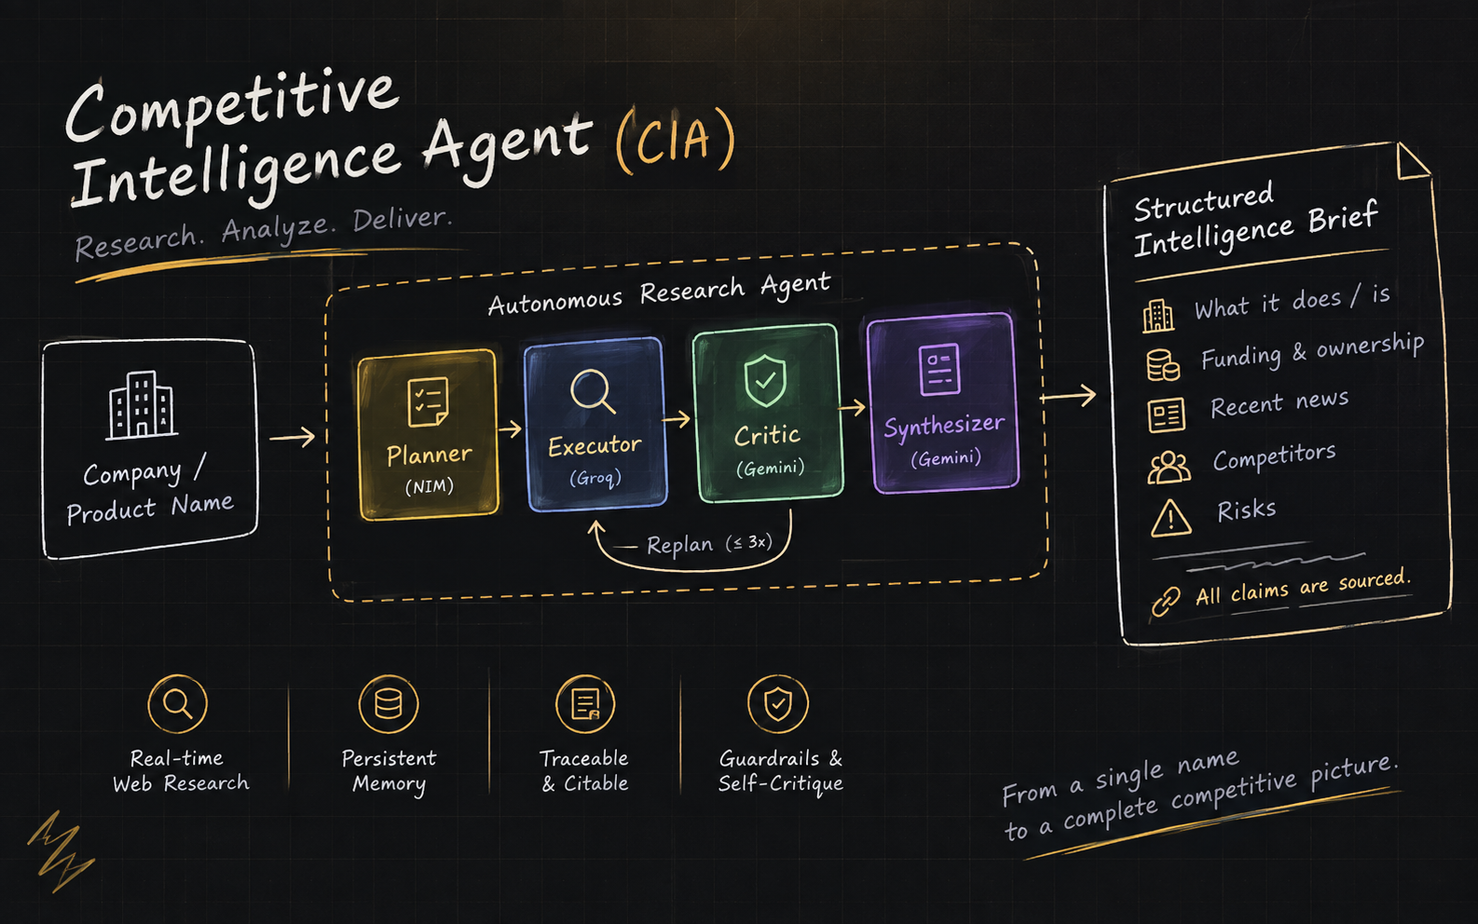
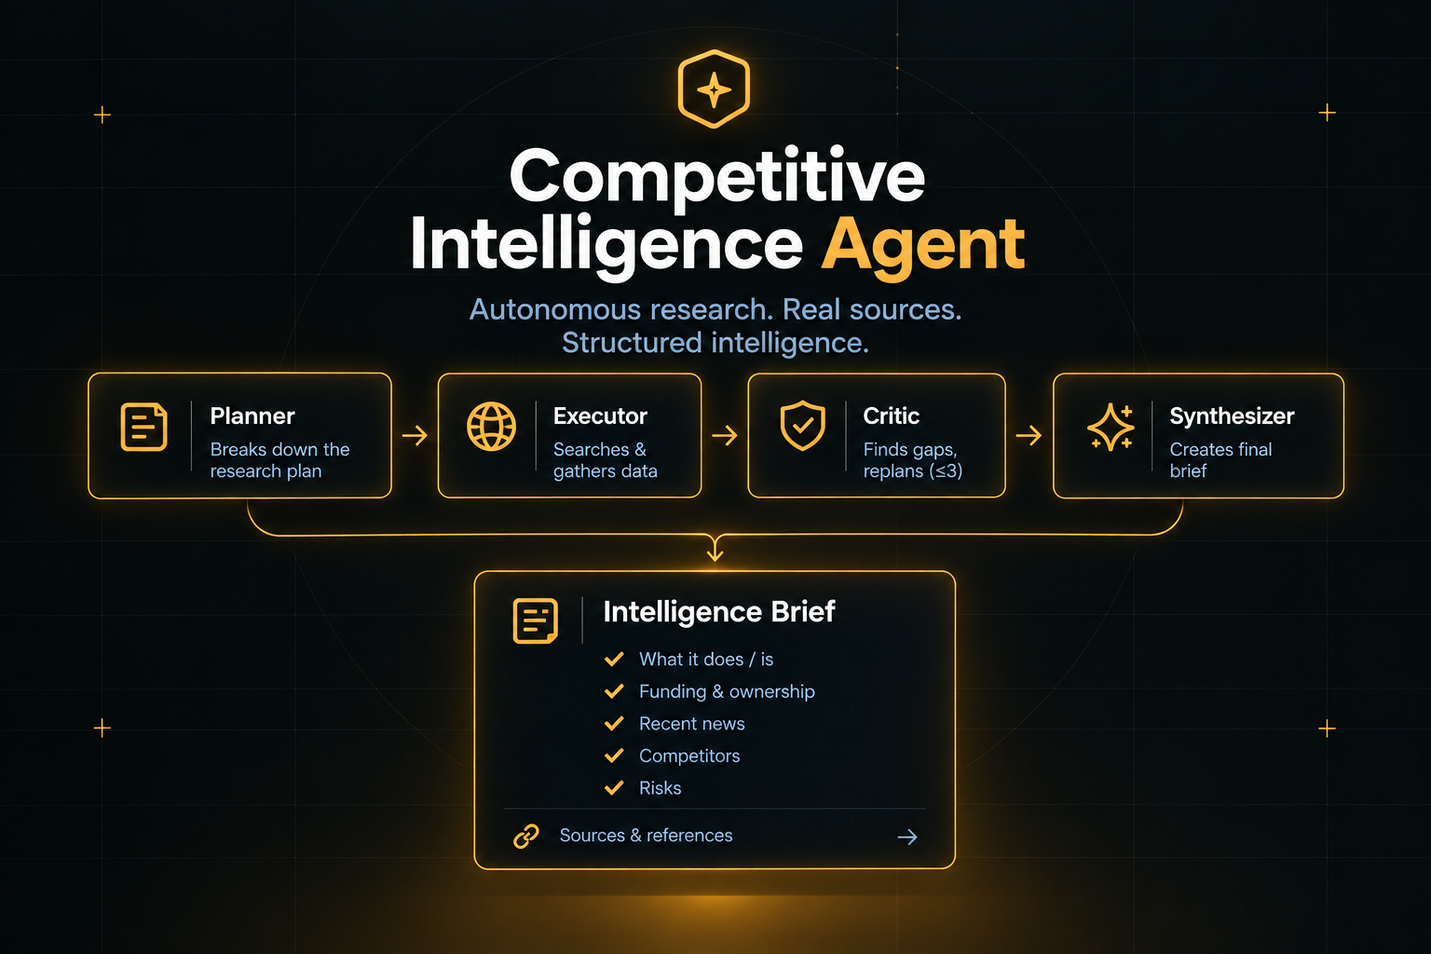
Update: hero section and assets

diff --git a/index.html b/index.html
@@ -3,8 +3,17 @@
 <head>
 <meta charset="UTF-8"/>
 <meta name="viewport" content="width=device-width, initial-scale=1.0"/>
-<title>Abhinav Harbola | AI/ML Engineer</title>
-<meta name="description" content="Portfolio of Abhinav Harbola, AI/ML Engineer building production-style systems across recommenders, RAG, autonomous agents, and MLOps governance."/>
+<title>Abhinav Harbola | AI/ML Engineer &amp; Data Scientist</title>
+<meta name="description" content="Portfolio of Abhinav Harbola, AI/ML Engineer &amp; Data Scientist building production-style systems across recommenders, RAG, autonomous agents, MLOps governance, and causal inference."/>
+<meta property="og:type" content="website"/>
+<meta property="og:title" content="Abhinav Harbola | AI/ML Engineer &amp; Data Scientist"/>
+<meta property="og:description" content="Nine end-to-end systems across AI agents, GenAI/RAG, MLOps governance, recommenders, and data science, each self-directed, tested, and benchmarked on free-tier infrastructure."/>
+<meta property="og:image" content="assets/images/hero_shot.webp"/>
+<meta property="og:url" content="https://abhinavharbola.dev/"/>
+<meta name="twitter:card" content="summary_large_image"/>
+<meta name="twitter:title" content="Abhinav Harbola | AI/ML Engineer &amp; Data Scientist"/>
+<meta name="twitter:description" content="Nine end-to-end systems across AI agents, GenAI/RAG, MLOps governance, recommenders, and data science, each self-directed, tested, and benchmarked on free-tier infrastructure."/>
+<meta name="twitter:image" content="assets/images/hero_shot.webp"/>
 <link rel="icon" href="assets/favicon.svg" type="image/svg+xml"/>
 <link rel="preconnect" href="https://fonts.googleapis.com">
 <link rel="preconnect" href="https://fonts.gstatic.com" crossorigin>
@@ -33,6 +42,7 @@
   --radius-card:14px;
   --radius-sm:8px;
   --maxw:1180px;
+  --nav-h:72px;
   --font-display:'Bricolage Grotesque',system-ui,sans-serif;
   --font-body:'Inter',system-ui,sans-serif;
   color-scheme:dark;
@@ -108,7 +118,7 @@ button{font-family:inherit;cursor:pointer;}
   background:var(--nav-bg);
   border-bottom:1px solid var(--border);
 }
-.nav-inner{display:flex;align-items:center;justify-content:space-between;height:72px;}
+.nav-inner{display:flex;align-items:center;justify-content:space-between;height:var(--nav-h);}
 .brand{display:flex;align-items:center;gap:10px;font-family:var(--font-display);font-weight:600;font-size:17px;letter-spacing:-.01em;}
 .brand-mark{
   width:34px;height:34px;border-radius:9px;flex-shrink:0;
@@ -144,7 +154,7 @@ button{font-family:inherit;cursor:pointer;}
   .nav-burger{display:flex;}
 }
 .mobile-menu{
-  display:none;position:fixed;inset:72px 0 0 0;z-index:49;background:var(--bg);
+  display:none;position:fixed;inset:var(--nav-h) 0 0 0;z-index:49;background:var(--bg);
   border-top:1px solid var(--border);padding:28px 24px;
 }
 .mobile-menu.open{display:block;}
@@ -182,7 +192,7 @@ button{font-family:inherit;cursor:pointer;}
   font-family:var(--font-display);font-weight:600;
   font-size:clamp(34px,5vw,58px);line-height:1.04;letter-spacing:-.02em;margin:18px 0 20px;
 }
-.hero h1 em{font-style:normal;color:var(--accent-text);}
+.hero h1 .accent-em{color:var(--accent-text);}
 .hero p.lead{font-size:17.5px;color:var(--text-muted);max-width:56ch;margin:0 0 30px;}
 .hero-actions{display:flex;gap:14px;flex-wrap:wrap;}
 
@@ -192,11 +202,11 @@ button{font-family:inherit;cursor:pointer;}
 .hero-corner.tl{top:-1px;left:-1px;border-top:2px solid var(--text-faint);border-left:2px solid var(--text-faint);}
 .hero-corner.br{bottom:-1px;right:-1px;border-bottom:2px solid var(--text-faint);border-right:2px solid var(--text-faint);}
 .hero-photo{
-  position:relative;z-index:1;border-radius:20px;overflow:hidden;border:1px solid var(--border-strong);
+  position:relative;z-index:1;border-radius:0 20px 0 20px;overflow:hidden;border:1px solid var(--border-strong);
   aspect-ratio:1/1.06;background:var(--surface-2);padding:12px;
 }
 .hero-photo img{
-  width:100%;height:100%;object-fit:cover;border-radius:9px;
+  width:100%;height:100%;object-fit:cover;border-radius:0 9px 0 9px;
   filter:grayscale(100%) contrast(1.02);
   transition:filter .45s ease;
 }
@@ -290,7 +300,7 @@ button{font-family:inherit;cursor:pointer;}
 
 /* contact */
 .contact-band{
-  background:linear-gradient(165deg, var(--surface-2), var(--surface));
+  background:var(--bg);
   border:1px solid var(--border);border-radius:20px;
   padding:56px;position:relative;overflow:hidden;
 }
@@ -336,7 +346,7 @@ footer{border-top:1px solid var(--border);padding:36px 0;}
 }
 .page-header .back:hover{color:var(--accent-text);}
 .page-header h1{font-family:var(--font-display);font-size:clamp(30px,4.5vw,46px);font-weight:600;letter-spacing:-.02em;margin:0 0 14px;text-align:center;}
-.page-header p{color:var(--text-muted);font-size:15.5px;max-width:64ch;margin:0 auto 30px;text-align:center;text-wrap:balance;}
+.page-header p{color:var(--text-muted);font-size:15.5px;max-width:80ch;margin:0 auto 30px;text-align:center;}
 
 .filter-row{display:flex;flex-wrap:wrap;justify-content:center;gap:10px;}
 .filter-chip{
@@ -353,6 +363,7 @@ footer{border-top:1px solid var(--border);padding:36px 0;}
   background:var(--surface);border:1px solid var(--border);border-radius:var(--radius-card);
   overflow:hidden;cursor:pointer;transition:border-color .2s ease, transform .2s ease;
   display:flex;flex-direction:column;text-align:left;width:100%;color:inherit;
+  padding:0;margin:0;font:inherit;-webkit-appearance:none;appearance:none;
 }
 .proj-card:hover{border-color:var(--accent-border);transform:translateY(-3px);}
 .proj-media{aspect-ratio:16/10;background:var(--bg-soft);position:relative;border-bottom:1px solid var(--border);}
@@ -377,6 +388,7 @@ footer{border-top:1px solid var(--border);padding:36px 0;}
   background:var(--bg-soft);border:1px solid var(--border-strong);border-radius:20px;max-width:820px;width:100%;
   margin-bottom:48px;overflow:hidden;
 }
+.modal:focus{outline:none;}
 .modal-media{aspect-ratio:16/9;background:var(--surface);position:relative;border-bottom:1px solid var(--border);}
 .modal-media img{width:100%;height:100%;object-fit:cover;object-position:top;}
 .modal-media.noimg{display:flex;align-items:center;justify-content:center;}
@@ -448,8 +460,8 @@ footer{border-top:1px solid var(--border);padding:36px 0;}
 <section class="hero">
   <div class="wrap hero-grid">
     <div class="rv in">
-      <span class="eyebrow">AI/ML Engineer &middot; open to Data Science roles</span>
-      <h1>ML and LLM systems built to hold up under <em>scrutiny</em>.</h1>
+      <span class="eyebrow">AI/ML Engineer &amp; Data Scientist</span>
+      <h1>ML and LLM systems built to hold up under <span class="accent-em">scrutiny</span>.</h1>
       <p class="lead">Not just for a demo. Across recommenders, retrieval-augmented generation, autonomous agents, and MLOps governance, each system is self-directed, tested, benchmarked, and honest about its own limits.</p>
       <div class="hero-actions">
         <a href="#/projects" class="btn btn-primary">View projects <svg class="ic" viewBox="0 0 24 24" fill="none" stroke="currentColor" stroke-width="1.8" stroke-linecap="round" stroke-linejoin="round"><path d="M5 12l14 0"/><path d="M13 18l6 -6"/><path d="M13 6l6 6"/></svg></a>
@@ -472,9 +484,9 @@ footer{border-top:1px solid var(--border);padding:36px 0;}
 <section class="stats-strip">
   <div class="wrap stats-grid">
     <div class="stat-item rv"><div class="stat-num"><span>9</span></div><div class="stat-label">End-to-end systems built</div></div>
-    <div class="stat-item rv"><div class="stat-num"><span>3</span></div><div class="stat-label">Domains: AI agents, MLOps, data science</div></div>
+    <div class="stat-item rv"><div class="stat-num"><span>5</span></div><div class="stat-label">Domains: AI agents, GenAI/RAG, MLOps, recommenders, data science</div></div>
     <div class="stat-item rv"><div class="stat-num"><span>160+</span></div><div class="stat-label">Automated tests documented across the portfolio</div></div>
-    <div class="stat-item rv"><div class="stat-num"><span>&#8377;0</span></div><div class="stat-label">Spent on paid infrastructure to build them</div></div>
+    <div class="stat-item rv"><div class="stat-num"><span>&#8377;0</span></div><div class="stat-label">Paid infrastructure, by design constraint</div></div>
   </div>
 </section>
 
@@ -666,7 +678,7 @@ footer{border-top:1px solid var(--border);padding:36px 0;}
     <div class="wrap">
       <a href="#/" class="back"><svg class="ic" viewBox="0 0 24 24" fill="none" stroke="currentColor" stroke-width="1.8" stroke-linecap="round" stroke-linejoin="round"><path d="M5 12l14 0"/><path d="M5 12l6 6"/><path d="M5 12l6 -6"/></svg> Back to home</a>
       <h1>All projects</h1>
-      <p>Nine self-directed, end-to-end systems across AI agents, MLOps governance, retrieval-augmented generation, recommenders, and applied data science. Every one runs on free-tier infrastructure and comes with its own test suite.</p>
+      <p>Nine self-directed systems across AI agents, GenAI/RAG, MLOps, recommenders, and data science, each free-tier and test-covered.</p>
       <div class="filter-row"><button class="filter-chip active" data-filter="all" onclick="filterProjects('all',this)">All work</button><button class="filter-chip" data-filter="agents" onclick="filterProjects('agents',this)">AI Agents</button><button class="filter-chip" data-filter="genai" onclick="filterProjects('genai',this)">GenAI / RAG</button><button class="filter-chip" data-filter="mlops" onclick="filterProjects('mlops',this)">MLOps</button><button class="filter-chip" data-filter="recsys" onclick="filterProjects('recsys',this)">Recommender Systems</button><button class="filter-chip" data-filter="ds" onclick="filterProjects('ds',this)">Data Science</button></div>
     </div>
   </div>
@@ -771,12 +783,12 @@ footer{border-top:1px solid var(--border);padding:36px 0;}
 
 <div class="modal-overlay" id="modalOverlay" onclick="if(event.target===this) closeProject();">
   
-  <div class="modal" id="modal-cia">
+  <div class="modal" id="modal-cia" role="dialog" aria-modal="true" aria-labelledby="modal-cia-title" tabindex="-1">
     <div class="modal-media"><img src="assets/images/cia.webp" alt="Competitive Intelligence Agent" loading="lazy" class=""/></div>
     <button class="modal-close" onclick="closeProject()" aria-label="Close"><svg class="ic" viewBox="0 0 24 24" fill="none" stroke="currentColor" stroke-width="1.8" stroke-linecap="round" stroke-linejoin="round"><path d="M18 6l-12 12"/><path d="M6 6l12 12"/></svg></button>
     <div class="modal-body">
       <div class="modal-cat">AI Agents</div>
-      <h2>Competitive Intelligence Agent</h2>
+      <h2 id="modal-cia-title">Competitive Intelligence Agent</h2>
       <p class="modal-tagline">An autonomous research agent that turns a company name into a sourced, traceable intelligence brief.</p>
       <div class="modal-stats"><div><div class="s-num">5</div><div class="s-lbl">required brief fields</div></div><div><div class="s-num">3</div><div class="s-lbl">max replan cycles</div></div><div><div class="s-num">15</div><div class="s-lbl">company eval benchmark</div></div></div>
 
@@ -810,12 +822,12 @@ footer{border-top:1px solid var(--border);padding:36px 0;}
       </div>
     </div>
   </div>
-  <div class="modal" id="modal-mlops">
+  <div class="modal" id="modal-mlops" role="dialog" aria-modal="true" aria-labelledby="modal-mlops-title" tabindex="-1">
     <div class="modal-media"><img src="assets/images/mlops.webp" alt="Continuous Credit Risk Governance Pipeline" loading="lazy" class=""/></div>
     <button class="modal-close" onclick="closeProject()" aria-label="Close"><svg class="ic" viewBox="0 0 24 24" fill="none" stroke="currentColor" stroke-width="1.8" stroke-linecap="round" stroke-linejoin="round"><path d="M18 6l-12 12"/><path d="M6 6l12 12"/></svg></button>
     <div class="modal-body">
       <div class="modal-cat">MLOps</div>
-      <h2>Continuous Credit Risk Governance Pipeline</h2>
+      <h2 id="modal-mlops-title">Continuous Credit Risk Governance Pipeline</h2>
       <p class="modal-tagline">A self-governing pipeline that scores, drift-checks, retrains, gates, and rolls back a credit risk model with no human in the loop.</p>
       <div class="modal-stats"><div><div class="s-num">637</div><div class="s-lbl">simulated live batches</div></div><div><div class="s-num">3</div><div class="s-lbl">promotion gates</div></div><div><div class="s-num">54</div><div class="s-lbl">automated tests</div></div></div>
 
@@ -849,12 +861,12 @@ footer{border-top:1px solid var(--border);padding:36px 0;}
       </div>
     </div>
   </div>
-  <div class="modal" id="modal-rag">
+  <div class="modal" id="modal-rag" role="dialog" aria-modal="true" aria-labelledby="modal-rag-title" tabindex="-1">
     <div class="modal-media"><img src="assets/images/rag.webp" alt="Kubernetes Gated RAG" loading="lazy" class=""/></div>
     <button class="modal-close" onclick="closeProject()" aria-label="Close"><svg class="ic" viewBox="0 0 24 24" fill="none" stroke="currentColor" stroke-width="1.8" stroke-linecap="round" stroke-linejoin="round"><path d="M18 6l-12 12"/><path d="M6 6l12 12"/></svg></button>
     <div class="modal-body">
       <div class="modal-cat">GenAI / RAG</div>
-      <h2>Kubernetes Gated RAG</h2>
+      <h2 id="modal-rag-title">Kubernetes Gated RAG</h2>
       <p class="modal-tagline">A production-oriented RAG system for Kubernetes Q&A that answers only from ingested docs, defended in depth.</p>
       <div class="modal-stats"><div><div class="s-num">2</div><div class="s-lbl">cache layers</div></div><div><div class="s-num">3</div><div class="s-lbl">provider failover chain</div></div><div><div class="s-num">6</div><div class="s-lbl">RAGAS eval metrics</div></div></div>
 
@@ -888,12 +900,12 @@ footer{border-top:1px solid var(--border);padding:36px 0;}
       </div>
     </div>
   </div>
-  <div class="modal" id="modal-reelbench">
+  <div class="modal" id="modal-reelbench" role="dialog" aria-modal="true" aria-labelledby="modal-reelbench-title" tabindex="-1">
     <div class="modal-media"><img src="assets/images/reelbench.webp" alt="ReelBench: Multi-Stage Recommender Benchmark" loading="lazy" class=""/></div>
     <button class="modal-close" onclick="closeProject()" aria-label="Close"><svg class="ic" viewBox="0 0 24 24" fill="none" stroke="currentColor" stroke-width="1.8" stroke-linecap="round" stroke-linejoin="round"><path d="M18 6l-12 12"/><path d="M6 6l12 12"/></svg></button>
     <div class="modal-body">
       <div class="modal-cat">Recommender Systems</div>
-      <h2>ReelBench: Multi-Stage Recommender Benchmark</h2>
+      <h2 id="modal-reelbench-title">ReelBench: Multi-Stage Recommender Benchmark</h2>
       <p class="modal-tagline">Five recommendation approaches benchmarked head to head on MovieLens 25M under one evaluation harness.</p>
       <div class="modal-stats"><div><div class="s-num">5</div><div class="s-lbl">approaches compared</div></div><div><div class="s-num">62k</div><div class="s-lbl">catalog items handled</div></div><div><div class="s-num">&lt;1.4GB</div><div class="s-lbl">peak memory at scale</div></div></div>
 
@@ -927,12 +939,12 @@ footer{border-top:1px solid var(--border);padding:36px 0;}
       </div>
     </div>
   </div>
-  <div class="modal" id="modal-churn">
+  <div class="modal" id="modal-churn" role="dialog" aria-modal="true" aria-labelledby="modal-churn-title" tabindex="-1">
     <div class="modal-media"><img src="assets/images/churn.webp" alt="Customer Churn Prediction with Profit Optimization" loading="lazy" class=""/></div>
     <button class="modal-close" onclick="closeProject()" aria-label="Close"><svg class="ic" viewBox="0 0 24 24" fill="none" stroke="currentColor" stroke-width="1.8" stroke-linecap="round" stroke-linejoin="round"><path d="M18 6l-12 12"/><path d="M6 6l12 12"/></svg></button>
     <div class="modal-body">
       <div class="modal-cat">Data Science</div>
-      <h2>Customer Churn Prediction with Profit Optimization</h2>
+      <h2 id="modal-churn-title">Customer Churn Prediction with Profit Optimization</h2>
       <p class="modal-tagline">Turns churn probability into a per-customer intervene or do-not-intervene call based on expected financial gain, not a raw cutoff.</p>
       <div class="modal-stats"><div><div class="s-num">12</div><div class="s-lbl">RFM features per window</div></div><div><div class="s-num">31</div><div class="s-lbl">unit tests</div></div><div><div class="s-num">90-day</div><div class="s-lbl">churn lookahead</div></div></div>
 
@@ -966,12 +978,12 @@ footer{border-top:1px solid var(--border);padding:36px 0;}
       </div>
     </div>
   </div>
-  <div class="modal" id="modal-causal">
+  <div class="modal" id="modal-causal" role="dialog" aria-modal="true" aria-labelledby="modal-causal-title" tabindex="-1">
     <div class="modal-media"><img src="assets/images/causal.webp" alt="Causal Impact & Heterogeneous Response Analysis" loading="lazy" class=""/></div>
     <button class="modal-close" onclick="closeProject()" aria-label="Close"><svg class="ic" viewBox="0 0 24 24" fill="none" stroke="currentColor" stroke-width="1.8" stroke-linecap="round" stroke-linejoin="round"><path d="M18 6l-12 12"/><path d="M6 6l12 12"/></svg></button>
     <div class="modal-body">
       <div class="modal-cat">Causal Inference</div>
-      <h2>Causal Impact & Heterogeneous Response Analysis</h2>
+      <h2 id="modal-causal-title">Causal Impact & Heterogeneous Response Analysis</h2>
       <p class="modal-tagline">Validates four causal estimators against known ground truth before trusting any of them on a real segment-level question.</p>
       <div class="modal-stats"><div><div class="s-num">14M</div><div class="s-lbl">rows of randomized exposure data</div></div><div><div class="s-num">4</div><div class="s-lbl">estimators stress-tested</div></div><div><div class="s-num">34</div><div class="s-lbl">automated tests</div></div></div>
 
@@ -1005,12 +1017,12 @@ footer{border-top:1px solid var(--border);padding:36px 0;}
       </div>
     </div>
   </div>
-  <div class="modal" id="modal-abtesting">
+  <div class="modal" id="modal-abtesting" role="dialog" aria-modal="true" aria-labelledby="modal-abtesting-title" tabindex="-1">
     <div class="modal-media"><img src="assets/images/abtesting.webp" alt="Experiment Design & Power Analysis" loading="lazy" class=""/></div>
     <button class="modal-close" onclick="closeProject()" aria-label="Close"><svg class="ic" viewBox="0 0 24 24" fill="none" stroke="currentColor" stroke-width="1.8" stroke-linecap="round" stroke-linejoin="round"><path d="M18 6l-12 12"/><path d="M6 6l12 12"/></svg></button>
     <div class="modal-body">
       <div class="modal-cat">Experimentation</div>
-      <h2>Experiment Design & Power Analysis</h2>
+      <h2 id="modal-abtesting-title">Experiment Design & Power Analysis</h2>
       <p class="modal-tagline">A preregistered A/B test pipeline for a shipping policy change, with the metric, sample size, and tests locked before data exists.</p>
       <div class="modal-stats"><div><div class="s-num">2,499</div><div class="s-lbl">sellers per arm required</div></div><div><div class="s-num">23</div><div class="s-lbl">automated tests</div></div><div><div class="s-num">R$28</div><div class="s-lbl">injected lift recovered</div></div></div>
 
@@ -1044,12 +1056,12 @@ footer{border-top:1px solid var(--border);padding:36px 0;}
       </div>
     </div>
   </div>
-  <div class="modal" id="modal-retailcast">
+  <div class="modal" id="modal-retailcast" role="dialog" aria-modal="true" aria-labelledby="modal-retailcast-title" tabindex="-1">
     <div class="modal-media"><img src="assets/images/retailcast.webp" alt="RetailCast: Forecasting and Anomaly Bench" loading="lazy" class=""/></div>
     <button class="modal-close" onclick="closeProject()" aria-label="Close"><svg class="ic" viewBox="0 0 24 24" fill="none" stroke="currentColor" stroke-width="1.8" stroke-linecap="round" stroke-linejoin="round"><path d="M18 6l-12 12"/><path d="M6 6l12 12"/></svg></button>
     <div class="modal-body">
       <div class="modal-cat">Forecasting</div>
-      <h2>RetailCast: Forecasting and Anomaly Bench</h2>
+      <h2 id="modal-retailcast-title">RetailCast: Forecasting and Anomaly Bench</h2>
       <p class="modal-tagline">Benchmarks four forecasting models and two anomaly detectors across 60 retail series, with grounded, verified LLM reporting.</p>
       <div class="modal-stats"><div><div class="s-num">60</div><div class="s-lbl">retail series benchmarked</div></div><div><div class="s-num">0.632</div><div class="s-lbl">best MASE, XGBoost</div></div><div><div class="s-num">20</div><div class="s-lbl">automated tests</div></div></div>
 
@@ -1083,12 +1095,12 @@ footer{border-top:1px solid var(--border);padding:36px 0;}
       </div>
     </div>
   </div>
-  <div class="modal" id="modal-mcp">
+  <div class="modal" id="modal-mcp" role="dialog" aria-modal="true" aria-labelledby="modal-mcp-title" tabindex="-1">
     <div class="modal-media noimg"><svg class="ic" viewBox="0 0 24 24" fill="none" stroke="currentColor" stroke-width="1.8" stroke-linecap="round" stroke-linejoin="round"><path d="M4 7h3a1 1 0 0 0 1 -1v-1a2 2 0 0 1 4 0v1a1 1 0 0 0 1 1h3a1 1 0 0 1 1 1v3a1 1 0 0 0 1 1h1a2 2 0 0 1 0 4h-1a1 1 0 0 0 -1 1v3a1 1 0 0 1 -1 1h-3a1 1 0 0 1 -1 -1v-1a2 2 0 0 0 -4 0v1a1 1 0 0 1 -1 1h-3a1 1 0 0 1 -1 -1v-3a1 1 0 0 1 1 -1h1a2 2 0 0 0 0 -4h-1a1 1 0 0 1 -1 -1v-3a1 1 0 0 1 1 -1"/></svg></div>
     <button class="modal-close" onclick="closeProject()" aria-label="Close"><svg class="ic" viewBox="0 0 24 24" fill="none" stroke="currentColor" stroke-width="1.8" stroke-linecap="round" stroke-linejoin="round"><path d="M18 6l-12 12"/><path d="M6 6l12 12"/></svg></button>
     <div class="modal-body">
       <div class="modal-cat">AI Agents / MCP</div>
-      <h2>IssueOps MCP</h2>
+      <h2 id="modal-mcp-title">IssueOps MCP</h2>
       <p class="modal-tagline">A guarded MCP server for GitHub issue triage. Every mutating action is proposed, never executed, without a human approval step.</p>
       <div class="modal-stats"><div><div class="s-num">10</div><div class="s-lbl">model-facing tools</div></div><div><div class="s-num">0</div><div class="s-lbl">execute tools on that surface</div></div><div><div class="s-num">48h</div><div class="s-lbl">proposal expiry window</div></div></div>
 
@@ -1127,7 +1139,7 @@ footer{border-top:1px solid var(--border);padding:36px 0;}
 
 <footer>
   <div class="wrap footer-inner">
-    <p>&copy; 2026 Abhinav Harbola. Varanasi, India &middot; open to remote or relocation. Designed and built independently.</p>
+    <p>&copy; 2026 Abhinav Harbola. Varanasi, India &middot; open to remote or relocation.</p>
     <div class="footer-links">
       <a href="mailto:abhinavdaharbola@gmail.com">Email</a>
       <a href="https://linkedin.com/in/abhinavharbola" target="_blank" rel="noopener">LinkedIn</a>
@@ -1155,12 +1167,33 @@ function toggleTheme(){
 }
 applyStoredTheme();
 
+function syncProjectsHeaderWidth(){
+  var row = document.querySelector('.filter-row');
+  var p = document.querySelector('.page-header p');
+  if(!row || !p){ return; }
+  if(row.offsetWidth > 0){
+    p.style.maxWidth = row.offsetWidth + 'px';
+  }
+}
 function showView(name){
   document.getElementById('view-home').classList.toggle('hide', name !== 'home');
   document.getElementById('view-projects').classList.toggle('hide', name !== 'projects');
   window.scrollTo(0,0);
   closeMobileMenu();
   revealAll();
+  if(name === 'projects'){ syncProjectsHeaderWidth(); }
+}
+window.addEventListener('resize', function(){
+  if(!document.getElementById('view-projects').classList.contains('hide')){
+    syncProjectsHeaderWidth();
+  }
+});
+if(document.fonts && document.fonts.ready){
+  document.fonts.ready.then(function(){
+    if(!document.getElementById('view-projects').classList.contains('hide')){
+      syncProjectsHeaderWidth();
+    }
+  });
 }
 function routeFromHash(){
   var h = window.location.hash;
@@ -1176,19 +1209,50 @@ function closeMobileMenu(){
   document.getElementById('mobileMenu').classList.remove('open');
 }
 
+var lastFocusedEl = null;
+var activeModal = null;
+
+function getFocusable(container){
+  return Array.prototype.slice.call(
+    container.querySelectorAll('a[href], button:not([disabled]), [tabindex]:not([tabindex="-1"])')
+  ).filter(function(el){ return el.offsetParent !== null; });
+}
+
+function trapFocus(e){
+  if(!activeModal || e.key !== 'Tab'){ return; }
+  var focusable = getFocusable(activeModal);
+  if(focusable.length === 0){ return; }
+  var first = focusable[0];
+  var last = focusable[focusable.length - 1];
+  if(e.shiftKey && document.activeElement === first){
+    e.preventDefault();
+    last.focus();
+  } else if(!e.shiftKey && document.activeElement === last){
+    e.preventDefault();
+    first.focus();
+  }
+}
+
 function openProject(id){
   document.querySelectorAll('.modal').forEach(function(m){ m.classList.add('hide'); });
   var m = document.getElementById('modal-'+id);
-  if(m){ m.classList.remove('hide'); }
+  if(!m){ return; }
+  m.classList.remove('hide');
   document.getElementById('modalOverlay').classList.add('open');
   document.body.style.overflow = 'hidden';
+  lastFocusedEl = document.activeElement;
+  activeModal = m;
+  m.focus();
 }
 function closeProject(){
   document.getElementById('modalOverlay').classList.remove('open');
   document.body.style.overflow = '';
+  activeModal = null;
+  if(lastFocusedEl){ lastFocusedEl.focus(); lastFocusedEl = null; }
 }
 document.addEventListener('keydown', function(e){
   if(e.key === 'Escape'){ closeProject(); }
+  trapFocus(e);
 });
 
 function filterProjects(cat, btn){
